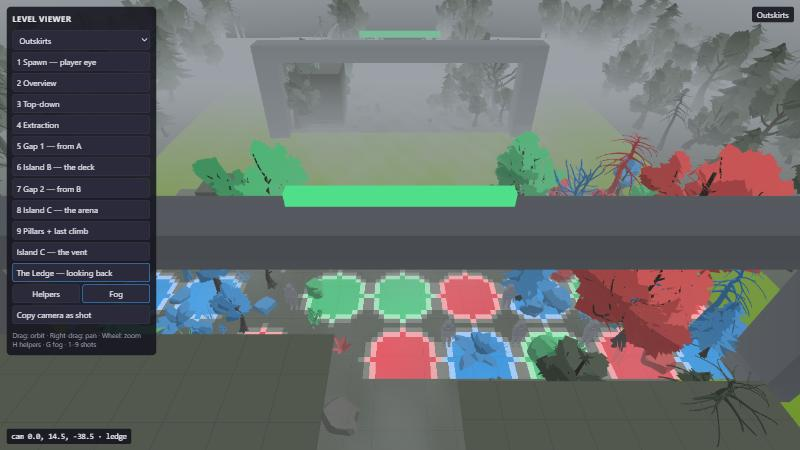
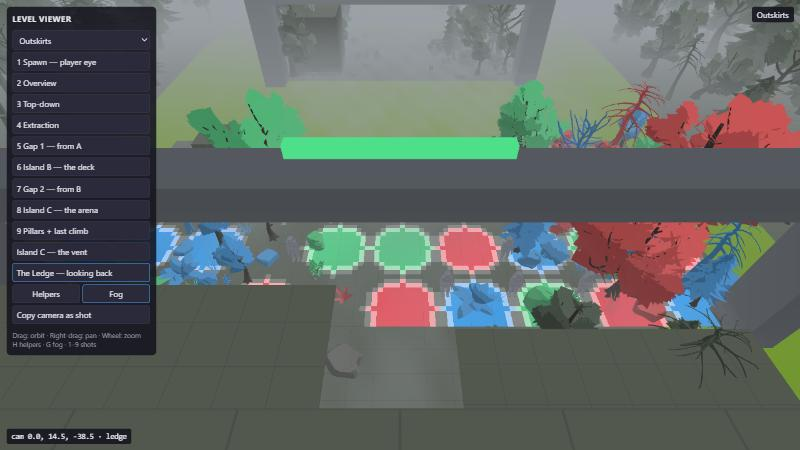
levels: aim the Ledge shot so it clears gate C's view-line test
The first commit moved the shot and broke level-shots.test.js (the closed
gate sat 43% of the way along the view line). Re-shot the reveal from the
new camera.

diff --git a/src/levels/level-01-mission.js b/src/levels/level-01-mission.js
@@ -627,7 +627,8 @@ export class Level01 extends LevelBase {
     // The vent from the landing: the lane it fills and the pocket behind the block.
     { name: 'vent', label: 'Island C — the vent', position: [6, 3.7, -14], target: [12, 0.5, -21], fog: true },
     // The Ledge looking back the way you came: the frame the decor reveal is for.
-    { name: 'ledge', label: 'The Ledge — looking back', position: [0, 14.5, -38.5], target: [0, 0, -20], fog: true },
+    // Aimed low enough that gate C, closed in the tests, sits past halfway.
+    { name: 'ledge', label: 'The Ledge — looking back', position: [0, 14.5, -38.5], target: [0, 0, -24], fog: true },
   ];
 
   async load() {
